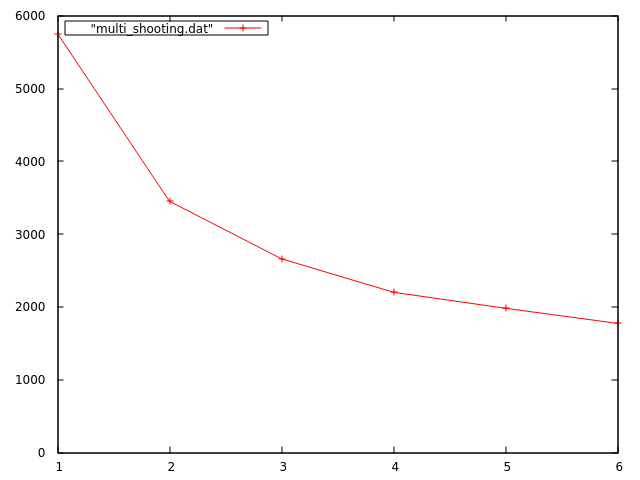
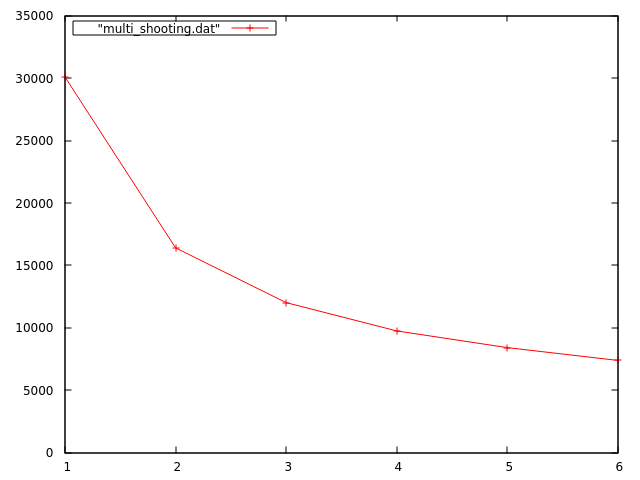
now even faster than sequential

diff --git a/multi_shooting/program.cpp b/multi_shooting/program.cpp
@@ -24,8 +24,8 @@
 struct point { double x, y; };
 
 struct multi_shooting_config {
-    int segment_count;
-    int sequential_steps_in_segment_count;
+    size_t segment_count;
+    size_t sequential_steps_in_segment_count;
     double epsilon;
 };
 
@@ -129,23 +129,27 @@ std::shared_ptr<std::vector<double>> newton_method_find_root(std::vector<double>
         x_prev = x_curr;
         auto inv_jac_and_func = get_inv_jac_and_func(*x_curr);
         x_curr = add_vect(*x_curr, *inv_jac_and_func.inv_jac->mul_vect(*minus_vect(*inv_jac_and_func.func_val)));
+        
+        //for (auto i = 0; i < x_curr->size(); i ++)
+        //    std::cout << "\t" << (*x_curr)[i];
+        //std::cout << std::endl;
     }
     std::cout << "newton iterations " << i << std::endl;
     return x_curr;
     
 }
 
-struct segment_solution {
+struct right_y_with_deriv {
     double right_y, right_y_deriv;
-    
 };
 
-double segment_right_y_deriv(
+double segment_right_y_deriv_by_its_left_y(
                                             multi_shooting_config& conf,
                                             std::function<double(double, double)> f, 
                                             double x_left,
                                             double y_left,
                                             double x_right) {
+    
     auto dy0 = conf.epsilon;
     auto y_right_of_y0_plus_dy0 = midpoint_method(
                 1,
@@ -159,45 +163,36 @@ double segment_right_y_deriv(
             x_left,
             y_left,
             x_right)->back();
-    return (y_right_of_y0_plus_dy0.y - y_right_of_y0.y) / dy0;
+    return 
+        (y_right_of_y0_plus_dy0.y - y_right_of_y0.y) / dy0;
 }
 
-struct inv_jac_func_val_and_tentative_solution : inv_jac_and_func_val {
-    std::shared_ptr<std::vector<std::shared_ptr<std::vector<point>>>> segment_solutions;
-};
-
-inv_jac_func_val_and_tentative_solution mismatch_and_its_inv_jacobian(multi_shooting_config& conf,
+inv_jac_and_func_val mismatch_and_its_inv_jacobian(multi_shooting_config& conf,
                                             std::function<double(double, double)> f,
                                             double x0,
                                             double y0,
                                             double x_max,
                                             std::vector<double>& seg_y0s
                                             ) {
-    auto segment_width = (x_max - x0) / conf.segment_count;
     
-    std::shared_ptr<std::vector<std::shared_ptr<std::vector<point>>>> tentative_solution(
-        new std::vector<std::shared_ptr<std::vector<point>>>(conf.segment_count)
-    );
+    auto segment_width = (x_max - x0) / conf.segment_count;
     std::vector<double> mismatch_derivs(conf.segment_count - 1);
-    auto mismatch = new std::vector<double>(conf.segment_count);
+    std::shared_ptr<std::vector<double>> mismatch(new std::vector<double>(conf.segment_count));
     (*mismatch)[0] = seg_y0s[0] - y0;
     #pragma omp parallel for
-    for (auto i = 0; i < conf.segment_count; i++) {
+    for (size_t i = 0; i < conf.segment_count - 1; i++) {
         auto seg_x0 = i * segment_width + x0;
         auto seg_x_max = seg_x0 + segment_width;
         auto seg_y0 = seg_y0s[i];
-        auto seg_solution = midpoint_method(
+        auto seg_y_right = midpoint_method(
                 conf.sequential_steps_in_segment_count,
                 f,
                 seg_x0,
                 seg_y0,
-                seg_x_max);
-        (*tentative_solution)[i] = seg_solution;
-        if (i < conf.segment_count - 1) {
-            // the last seg does not have right boundary equations
-            mismatch_derivs[i] = segment_right_y_deriv(conf, f, seg_x0, seg_y0, seg_x_max);
-            (*mismatch)[i + 1] = seg_y0s[i + 1] - seg_solution->back().y;
-        }
+                seg_x_max)->back().y;
+            
+        mismatch_derivs[i] = segment_right_y_deriv_by_its_left_y(conf, f, seg_x0, seg_y0, seg_x_max);
+        (*mismatch)[i + 1] = seg_y0s[i + 1] - seg_y_right;
     }
     std::shared_ptr<matrix> jac(new matrix(conf.segment_count));
     #pragma omp parallel for
@@ -209,11 +204,7 @@ inv_jac_func_val_and_tentative_solution mismatch_and_its_inv_jacobian(multi_shoo
             jac->set(j, i, prod);
         }
     }
-    inv_jac_func_val_and_tentative_solution res;
-    res.func_val = std::shared_ptr<std::vector<double>>(mismatch);
-    res.inv_jac = jac;
-    res.segment_solutions = tentative_solution;
-    return res;
+    return inv_jac_and_func_val { mismatch, jac };
 }
 
 std::shared_ptr<std::vector<point>> multi_shooting_solve_ode(
@@ -222,21 +213,32 @@ std::shared_ptr<std::vector<point>> multi_shooting_solve_ode(
                                     double x0,
                                     double y0,
                                     double x_max) {
-                                        
-    std::vector<double> init_seg_y0s(conf.segment_count, y0);    
-    std::shared_ptr<std::vector<std::shared_ptr<std::vector<point>>>> tentative_solution;
-    auto mismatch_and_inv_jac = [&tentative_solution, &conf, f, x0, y0, x_max](auto seg_y0s) {
-        auto res =  mismatch_and_its_inv_jacobian(conf, f, x0, y0, x_max, seg_y0s);
-        tentative_solution = res.segment_solutions;
-        return res;
+   auto coarse_solution = *midpoint_method(
+                conf.segment_count,
+                f,
+                x0,
+                y0,
+                x_max);
+    std::vector<double> init_seg_y0s(conf.segment_count);
+    for (size_t i = 0; i < conf.segment_count; i++) {
+        init_seg_y0s[i] = coarse_solution[i].y;
+    }
+    auto mismatch_and_inv_jac = [&conf, f, x0, y0, x_max](auto seg_y0s) {
+        return mismatch_and_its_inv_jacobian(conf, f, x0, y0, x_max, seg_y0s);
     };
+    
     auto root_y0s = *newton_method_find_root(init_seg_y0s, conf.epsilon, mismatch_and_inv_jac);
+    
     std::shared_ptr<std::vector<point>> v(
         new std::vector<point>((conf.sequential_steps_in_segment_count + 1) * conf.segment_count)
     );
+    auto segment_width = (x_max - x0) / conf.segment_count;
     #pragma omp parallel for
-    for (size_t i = 0; i < tentative_solution->size(); i++) {
-        auto seg_solution = *(*tentative_solution)[i];
+    for (size_t i = 0; i < root_y0s.size(); i++) {
+        auto seg_x0 = i * segment_width + x0;
+        auto seg_y0 = root_y0s[i];
+        auto seg_x_max = seg_x0 + segment_width;
+        auto seg_solution = *midpoint_method(conf.sequential_steps_in_segment_count, f, seg_x0, seg_y0, seg_x_max);
         for (size_t j = 0; j < seg_solution.size(); j++) {
             (*v)[seg_solution.size() * i + j] = seg_solution[j];
         }
@@ -255,9 +257,9 @@ int main(int argc, char *argv[]) {
     
     auto f = [](auto x, auto y){ return 1 / x * sin(x * y); };
     multi_shooting_config conf = {
-        segment_count: 300,
-        sequential_steps_in_segment_count: 300000,
-        epsilon: 0.001
+        segment_count: 100,
+        sequential_steps_in_segment_count: 1000000,
+        epsilon: 0.0001
     };
     auto from = 0.0001;
     auto initial_value = 10;
@@ -273,10 +275,12 @@ int main(int argc, char *argv[]) {
     }
     
     int max = omp_get_max_threads();
-    for (auto i = 6; i <= max; i++) {
+    for (auto i = 1; i <= max; i++) {
         std::ofstream points_out_file("../multi_shooting.dat");
         omp_set_num_threads(i);
         auto start = std::chrono::system_clock::now();
+        
+        //auto points = midpoint_method(2000, f, from, initial_value, to);
         
         auto points = multi_shooting_solve_ode(conf, f, from, initial_value, to);
         
